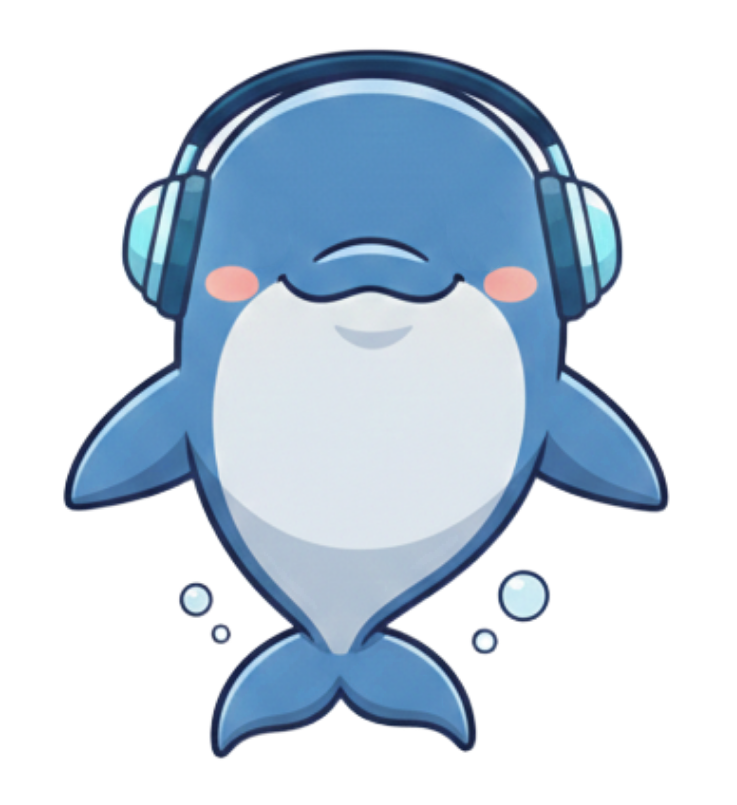
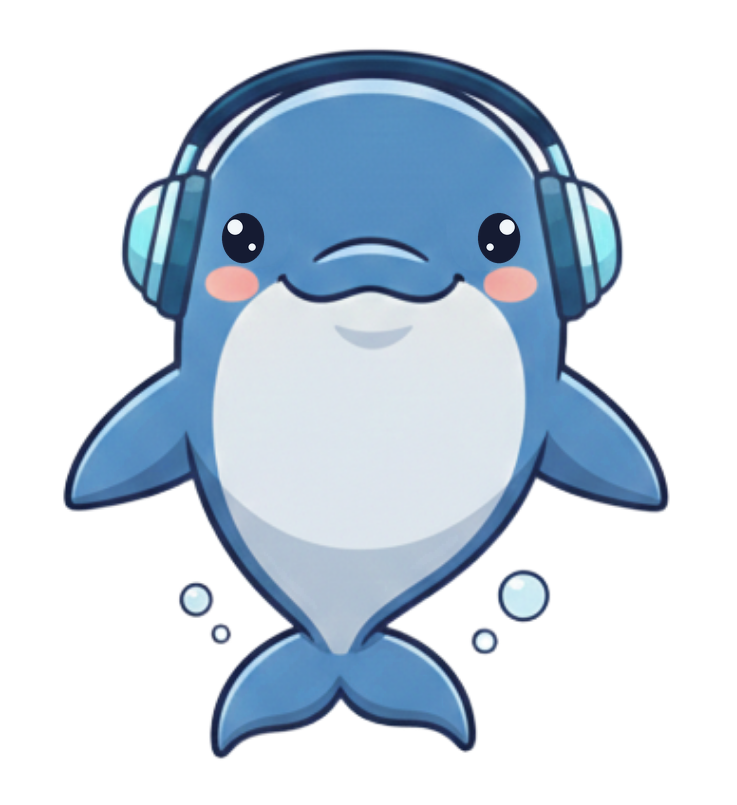
프로젝트 썸네일 추가

Changed region(s): [[0.6242, 0.2484, 0.7178, 0.3416], [0.2809, 0.2484, 0.3745, 0.3416]]

diff --git a/index.html b/index.html
@@ -131,10 +131,29 @@
   .gallery-card:hover { border-color: var(--accent); transform: translateY(-2px); text-decoration: none; }
   .gallery-card:focus-visible { outline: 2px solid var(--accent); outline-offset: 2px; }
   .gallery-thumb {
-    height: 84px; border-radius: 10px; margin-bottom: 16px;
-    background: linear-gradient(135deg, var(--accent-soft), var(--tag-bg));
+    height: 132px; border-radius: 10px; margin-bottom: 16px; overflow: hidden;
+    background: linear-gradient(135deg, var(--thumb-from, var(--accent-soft)), var(--thumb-to, var(--tag-bg)));
     display: flex; align-items: center; justify-content: center;
     font-size: 19px; font-weight: 700; color: var(--accent); letter-spacing: -0.01em;
+  }
+  .gallery-thumb img {
+    height: 100%; width: 100%; object-fit: contain; padding: 12px;
+    transition: transform .18s ease;
+  }
+  .gallery-card:hover .gallery-thumb img { transform: scale(1.05); }
+  .thumb-aida { --thumb-from: #fbf0dd; --thumb-to: #f2dcbe; }
+  .thumb-newsbara { --thumb-from: #e6edfb; --thumb-to: #ccdcf5; }
+  .thumb-squiz { --thumb-from: #e3f1f7; --thumb-to: #cbe3f1; }
+  @media (prefers-color-scheme: dark) {
+    :root:not([data-theme="light"]) .thumb-aida { --thumb-from: #3b3226; --thumb-to: #4b3e2b; }
+    :root:not([data-theme="light"]) .thumb-newsbara { --thumb-from: #232c42; --thumb-to: #2c3652; }
+    :root:not([data-theme="light"]) .thumb-squiz { --thumb-from: #1f333c; --thumb-to: #26404c; }
+  }
+  :root[data-theme="dark"] .thumb-aida { --thumb-from: #3b3226; --thumb-to: #4b3e2b; }
+  :root[data-theme="dark"] .thumb-newsbara { --thumb-from: #232c42; --thumb-to: #2c3652; }
+  :root[data-theme="dark"] .thumb-squiz { --thumb-from: #1f333c; --thumb-to: #26404c; }
+  @media (prefers-reduced-motion: reduce) {
+    .gallery-card:hover .gallery-thumb img { transform: none; }
   }
   .gallery-title { font-size: 16.5px; font-weight: 700; display: flex; align-items: center; gap: 7px; margin-bottom: 4px; flex-wrap: wrap; }
   .gallery-meta { font-size: 12px; color: var(--text-dim); margin-bottom: 10px; }
@@ -191,15 +210,17 @@
   .list-item:last-child { border-bottom: none; }
   .list-item .li-title { font-weight: 600; font-size: 14.5px; }
   .list-item .li-sub { font-size: 13px; color: var(--text-dim); margin-top: 2px; }
-  button.list-item {
+  button.list-item, a.list-item {
     display: flex; align-items: center; justify-content: space-between; gap: 14px;
     width: 100%; text-align: left; font: inherit; color: var(--text);
     background: none; border: none; border-bottom: 1px solid var(--border); cursor: pointer;
   }
-  button.list-item:last-child { border-bottom: none; }
-  button.list-item .li-more { font-size: 12.5px; color: var(--accent); font-weight: 600; white-space: nowrap; }
-  button.list-item:hover .li-title, button.list-item:hover .li-more { color: var(--accent); }
-  button.list-item:focus-visible { outline: 2px solid var(--accent); outline-offset: 2px; border-radius: 8px; }
+  a.list-item { text-decoration: none; }
+  button.list-item:last-child, a.list-item:last-child { border-bottom: none; }
+  button.list-item .li-more, a.list-item .li-more { font-size: 12.5px; color: var(--accent); font-weight: 600; white-space: nowrap; }
+  button.list-item:hover .li-title, button.list-item:hover .li-more,
+  a.list-item:hover .li-title, a.list-item:hover .li-more { color: var(--accent); }
+  button.list-item:focus-visible, a.list-item:focus-visible { outline: 2px solid var(--accent); outline-offset: 2px; border-radius: 8px; }
 
   /* 성적 모달 */
   .tr-summary {
@@ -335,7 +356,7 @@
 
     <div class="project-gallery">
       <a class="gallery-card" href="demos/aida.html">
-        <div class="gallery-thumb">아이다</div>
+        <div class="gallery-thumb thumb-aida"><img src="demos/images/aida/hoho-idle.webp" alt="아이다 마스코트 호호" loading="lazy" decoding="async"></div>
         <div class="gallery-title">아이다 <span class="award-badge">🥇 1등</span></div>
         <div class="gallery-meta">2026.04 – 2026.05 · 담당: Infra, FE</div>
         <div class="gallery-desc">AI의 오답을 직접 경험하며 데이터를 보완하는 스토리 기반 AI 리터러시 교육 서비스</div>
@@ -343,7 +364,7 @@
       </a>
 
       <a class="gallery-card" href="demos/newsbara.html">
-        <div class="gallery-thumb">뉴스바라</div>
+        <div class="gallery-thumb thumb-newsbara"><img src="demos/images/newsbara/bara-front.webp" alt="뉴스바라 마스코트 바라" loading="lazy" decoding="async"></div>
         <div class="gallery-title">뉴스바라 <span class="award-badge">🥉 3등</span></div>
         <div class="gallery-meta">2026.02 – 2026.03 · 담당: Backend, Infra</div>
         <div class="gallery-desc">관심 키워드와 기사 임베딩 기반으로 개인화된 IT 뉴스를 추천하는 큐레이션 서비스</div>
@@ -351,7 +372,7 @@
       </a>
 
       <a class="gallery-card" href="demos/squiz.html">
-        <div class="gallery-thumb">SQUIZ</div>
+        <div class="gallery-thumb thumb-squiz"><img src="demos/images/squiz-dolphin.png" alt="SQUIZ 마스코트 돌고래" loading="lazy" decoding="async"></div>
         <div class="gallery-title">SQUIZ</div>
         <div class="gallery-meta">2026.01 – 2026.02 · 담당: Full Stack (퀴즈 도메인)</div>
         <div class="gallery-desc">스터디 생성부터 퀴즈 학습, 복습, 통계까지 연결한 FSRS 기반 AI 학습 플랫폼</div>
@@ -505,7 +526,13 @@
         <h3 style="font-size:13px;text-transform:uppercase;letter-spacing:.05em;color:var(--text-dim);margin-bottom:8px;">수상 · 활동</h3>
         <div class="list-item"><div class="li-title">아이다 프로젝트 우수상 (1등)</div><div class="li-sub">삼성 청년 SW·AI 아카데미 · 2026.05</div></div>
         <div class="list-item"><div class="li-title">뉴스바라 프로젝트 우수상 (3등)</div><div class="li-sub">삼성 청년 SW·AI 아카데미 · 2026.04</div></div>
-        <div class="list-item"><div class="li-title">SSAFY 9월 우수 스터디 (알고리즘)</div><div class="li-sub">삼성 청년 SW·AI 아카데미 · 2025.09</div></div>
+        <a class="list-item" href="https://github.com/ssafy14-gumi1-algorithm" target="_blank" rel="noopener">
+          <span>
+            <span class="li-title" style="display:block;">SSAFY 9월 우수 스터디 (알고리즘)</span>
+            <span class="li-sub" style="display:block;">삼성 청년 SW·AI 아카데미 · 2025.09</span>
+          </span>
+          <span class="li-more">GitHub →</span>
+        </a>
         <div class="list-item"><div class="li-title">SQLD</div><div class="li-sub">한국데이터산업진흥원 · 2025.12</div></div>
         <div class="list-item"><div class="li-title">정보처리기사</div><div class="li-sub">한국산업인력공단 · 2024.12</div></div>
         <div class="list-item"><div class="li-title">TOEIC Speaking IM2</div><div class="li-sub">2026.04</div></div>

diff --git a/demos/squiz.html b/demos/squiz.html
@@ -428,13 +428,6 @@ button { font-family: inherit; }
 /* 마스코트 */
 .mascot { position: relative; display: inline-block; filter: drop-shadow(0 20px 13px rgba(0,0,0,0.15)); }
 .mascot img { width: 100%; height: 100%; object-fit: contain; user-select: none; }
-.pupil {
-  position: absolute; border-radius: 50%; pointer-events: none;
-  background: radial-gradient(circle at 35% 35%, #3d3d4d 0%, #1a1a2d 100%);
-  box-shadow: inset 0 -1px 2px rgba(255,255,255,0.1);
-  transition: transform 0.1s ease-out;
-}
-.pupil .hl { position: absolute; border-radius: 50%; background: #fff; }
 
 /* =============================================================================
    QuizCourseList — /quiz-practice
@@ -1531,17 +1524,8 @@ function renderGameSelection() {
 }
 
 function mascotHtml(size) {
-  const eye = size * 0.08;
-  function pupil(cx) {
-    return '<div class="pupil" data-pupil style="width:' + eye + 'px;height:' + eye + 'px;' +
-      'left:' + (cx - eye / 2) + 'px;top:' + (size * 0.32 - eye / 2) + 'px">' +
-      '<span class="hl" style="width:' + (eye * 0.3) + 'px;height:' + (eye * 0.3) + 'px;top:18%;left:22%;opacity:.9"></span>' +
-      '<span class="hl" style="width:' + (eye * 0.15) + 'px;height:' + (eye * 0.15) + 'px;top:55%;left:55%;opacity:.5"></span>' +
-      '</div>';
-  }
   return '<div class="mascot" id="mascot" style="width:' + size + 'px;height:' + size + 'px">' +
     '<img src="images/squiz-dolphin.png" alt="SQUIZ 마스코트" draggable="false" />' +
-    pupil(size * 0.4) + pupil(size * 0.6) +
     '</div>';
 }
 
@@ -1961,7 +1945,7 @@ function render() {
   app.innerHTML = html;
   routeLabel.textContent = location.hash || '#/quiz';
 
-  if (state.screen === 'game') { startTyping(); bindMascot(); }
+  if (state.screen === 'game') { startTyping(); }
   if (state.screen === 'session') focusInput();
 }
 
@@ -1979,26 +1963,6 @@ function startTyping() {
     if (i < text.length) { node.textContent = text.slice(0, ++i); }
     else { setTimeout(function () { i = 0; if (node) node.textContent = ''; }, 2000); }
   }, 150);
-}
-
-/* --- 마스코트 눈동자 커서 추적 --- */
-function bindMascot() {
-  const mascot = document.getElementById('mascot');
-  if (!mascot) return;
-  const pupils = mascot.querySelectorAll('[data-pupil]');
-  window.onmousemove = function (e) {
-    const rect = mascot.getBoundingClientRect();
-    const dx = e.clientX - (rect.left + rect.width / 2);
-    const dy = e.clientY - (rect.top + rect.height / 2);
-    const dist = Math.sqrt(dx * dx + dy * dy);
-    const maxMove = 3;
-    const nx = dist > 0 ? dx / dist : 0;
-    const ny = dist > 0 ? dy / dist : 0;
-    const move = Math.min(dist / 100, 1) * maxMove;
-    pupils.forEach(function (p) {
-      p.style.transform = 'translate(' + (nx * move) + 'px,' + (ny * move) + 'px)';
-    });
-  };
 }
 
 function focusInput() {
